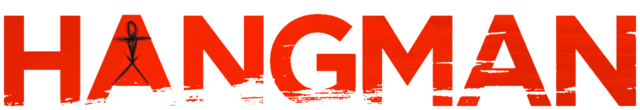
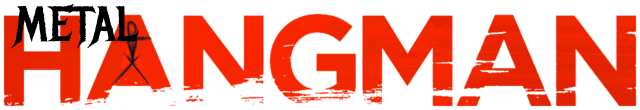
Made it metal.
Added a theme including updated images, audio, background and words.

Changed region(s): [[0.0, 0.0273, 0.2188, 0.4364]]

diff --git a/assets/javascript/game.js b/assets/javascript/game.js
@@ -1,10 +1,17 @@
 //List of words for game
-const wordJar = ["AWKWARD", "BAGPIPES", "BANJO", "BUNGLER", "CROQUET", "CRYPT", "DWARVES", "FERVID", "FISHHOOK",
+const wordJar = ["SLAYER", "PANTERA", "METALLICA", "MEGADETH", "EXPIRE", "GOJIRA", "SLIPKNOT", "MOTORHEAD", "INTEGRITY", "ANTHRAX", "SEPULTURA", "MASTODON",
+                 "MAYHEM", "VENOM", "OPETH", "DARKTHRONE", "ABBATH", "BATUSHKA", "TOOL", "INCENDIARY", "TERROR", "MANOWAR", "DEATH", "PRIMUS", "HELLOWEEN",
+                 "BATHORY", "BEHEMOTH", "CONVERGE", "PALLBEARER", "COUNTERPARTS", "RINGWORM", "NAILS", "BARONESS", "GAZA", "HAKEN", "CURSED", "BURZUM", "WATAIN",
+                 "OBITUARY", "VADER", "NILE", "CLUTCH", "MISFITS"];
+
+    /* --Old testing wordjar.
+    ["AWKWARD", "BAGPIPES", "BANJO", "BUNGLER", "CROQUET", "CRYPT", "DWARVES", "FERVID", "FISHHOOK",
     "FJORD", "GAZEBO", "GYPSY", "HAIKU", "HAPHAZARD", "HYPHEN", "IVORY", "JAZZY", "JIFFY", "JINX", "JUKEBOX", "KAYAK",
     "KIOSK", "KLUTZ", "MEMENTO", "MYSTIFY", "NUMBSKULL", "OSTRACIZE", "OXYGEN", "PAJAMA", "PHLEGM", "PIXEL", "POLKA",
     "QUAD", "QUIP", "RHYTHMIC", "ROGUE", "SPHINX", "SQUAWK", "SWIVEL", "TOADY", "TWELFTH", "UNZIP", "WAXY", "WILDEBEEST",
     "YACHT", "ZEALOUS", "ZIGZAG", "ZIPPY", "ZOMBIE"
-];
+    ];
+    */
 
 //Game variables
 var wins = 0;

diff --git a/assets/css/style.css b/assets/css/style.css
@@ -4,7 +4,7 @@ html, body {
 
 body {
     font-family: 'Metal Mania', cursive;
-    background: black;
+    background-image: url("../images/background.jpg");
 }
 
 .container {
